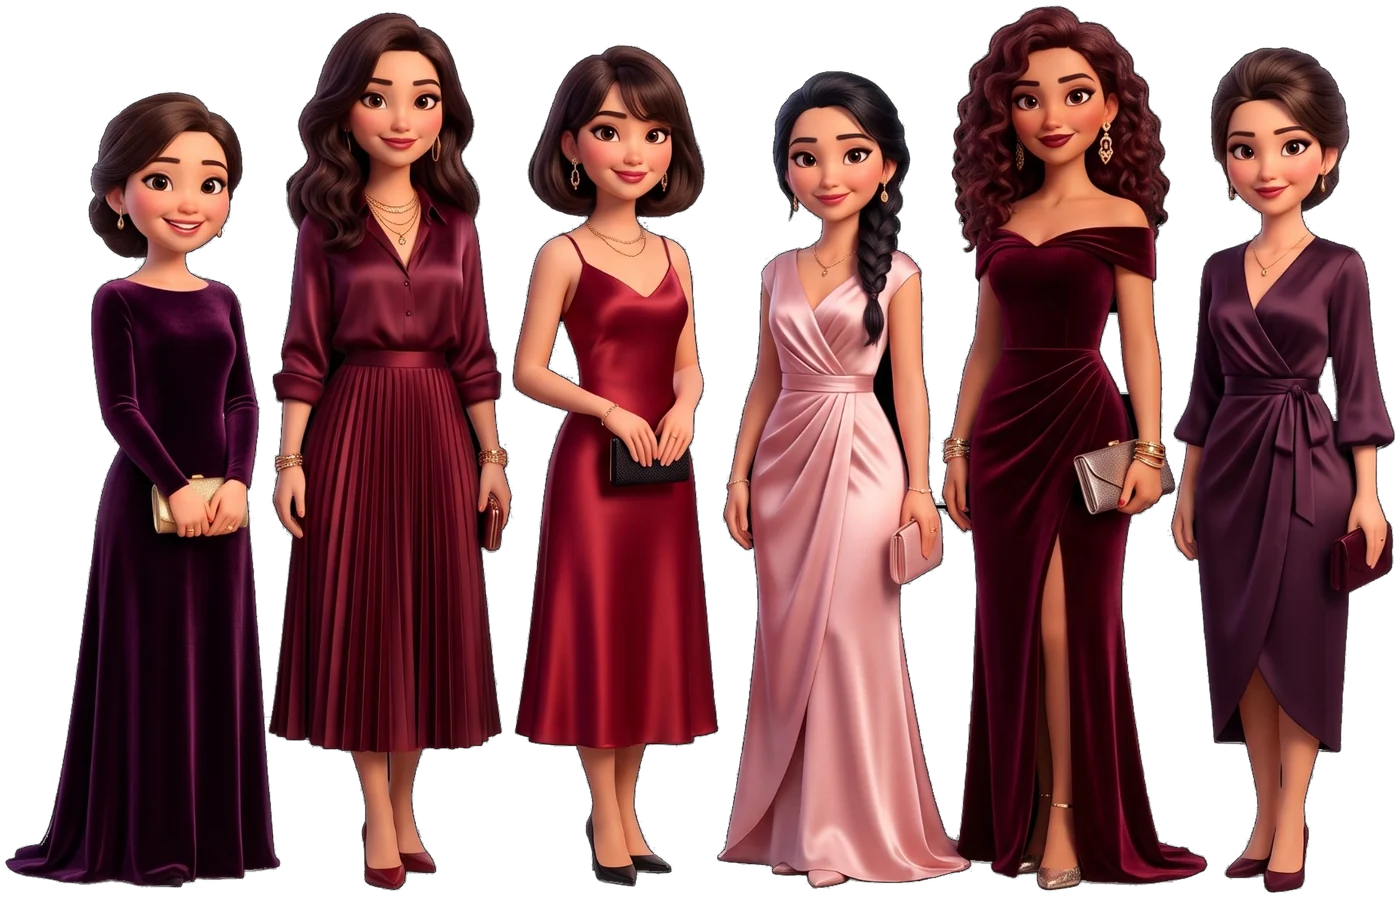
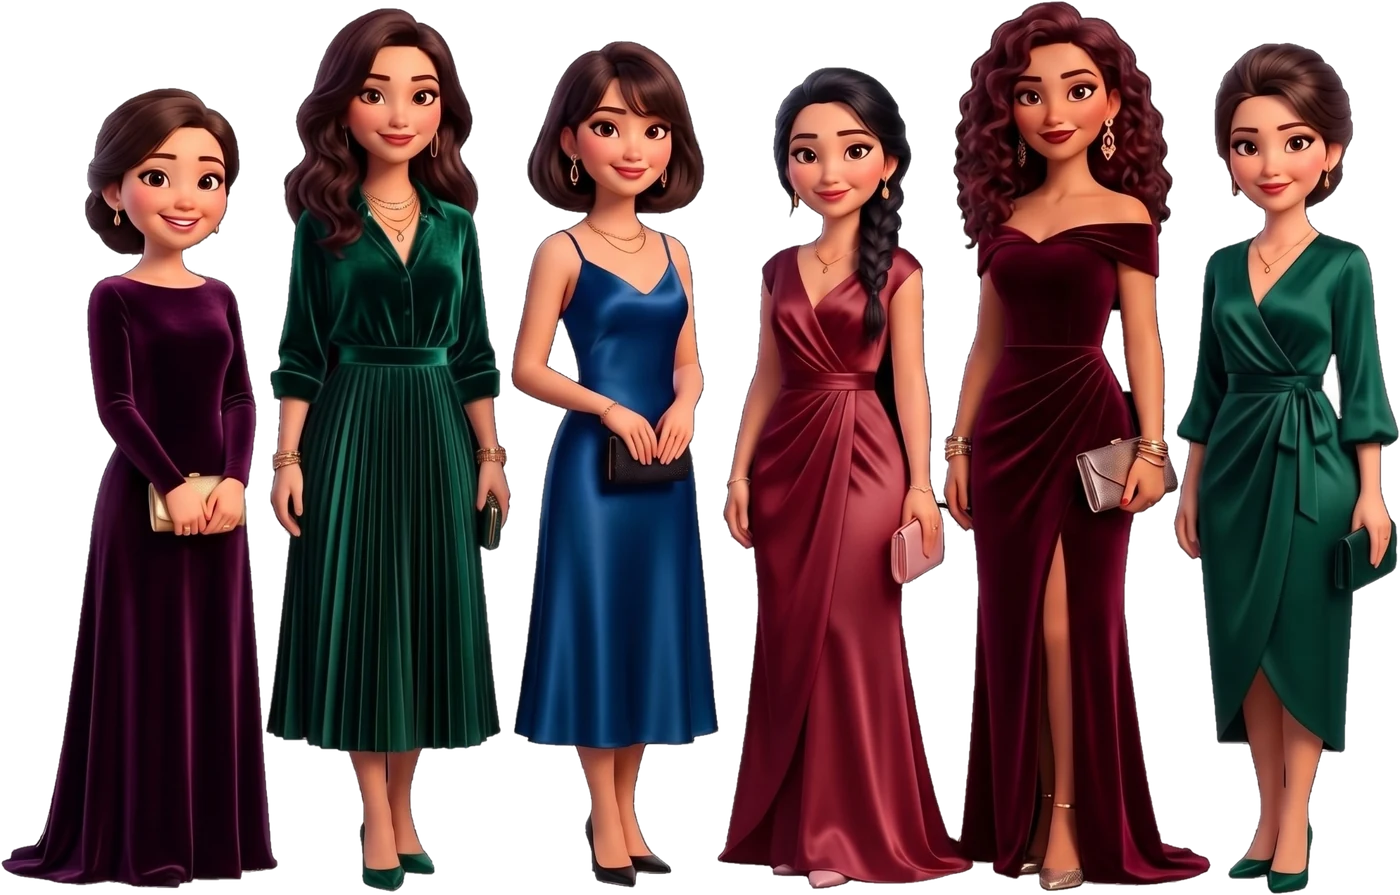
Update dress code: jewel tones image and text

diff --git a/index.html b/index.html
@@ -552,19 +552,18 @@ textarea.inp{min-height:88px;resize:vertical}
       <path pathLength="1" d="M105 3 C96 11 96 19 105 27 C114 19 114 11 105 3Z"/>
       <circle pathLength="1" cx="90" cy="15" r="2"/><circle pathLength="1" cx="120" cy="15" r="2"/>
     </svg>
-    <p class="lead" data-a="up" data-i18n="dressLead">Тойымызға бордо және шие түсті киіммен келсеңіздер, қуанышты боламыз.</p>
+    <p class="lead" data-a="up" data-i18n="dressLead">Тойымызға зүмірет, бордо, сапфир және қараөрік түсті киіммен келсеңіздер, қуанышты боламыз.</p>
     <!-- images/dresscode.webp (transparent background) replaces the swatches when it loads; the swatches stay as a fallback. -->
     <figure class="dress-art" id="dressArt" data-a="zoom" hidden>
-      <img src="images/dresscode.webp" alt="Дресс-код: бордо және шие түсті көйлектер" data-i18n-alt="dressAlt" decoding="async"
+      <img src="images/dresscode.webp" alt="Дресс-код: зүмірет, бордо, сапфир және қараөрік түсті көйлектер" data-i18n-alt="dressAlt" decoding="async"
         onload="document.getElementById('dressArt').hidden=false;document.getElementById('swatches').hidden=true"
         onerror="this.parentNode.remove()">
     </figure>
     <div class="swatches" id="swatches">
-      <div class="sw" style="--i:0"><i style="background:#3f1119"></i><span data-i18n="sw1">баклажан</span></div>
+      <div class="sw" style="--i:0"><i style="background:#0f5a45"></i><span data-i18n="sw1">зүмірет</span></div>
       <div class="sw" style="--i:1"><i style="background:#6b1d2a"></i><span data-i18n="sw2">бордо</span></div>
-      <div class="sw" style="--i:2"><i style="background:#962f3a"></i><span data-i18n="sw3">шие</span></div>
-      <div class="sw" style="--i:3"><i style="background:#c0606a"></i><span data-i18n="sw4">анар</span></div>
-      <div class="sw" style="--i:4"><i style="background:#e7c3bd"></i><span data-i18n="sw5">пудра</span></div>
+      <div class="sw" style="--i:2"><i style="background:#1d4a8a"></i><span data-i18n="sw3">сапфир</span></div>
+      <div class="sw" style="--i:3"><i style="background:#4a1a45"></i><span data-i18n="sw4">қараөрік</span></div>
     </div>
   </section>
 
@@ -643,9 +642,9 @@ var RU = {
   p3: 'Встреча сватов', p3d: 'Встречаем наших уважаемых сватов',
   p4: 'Торжество', p4d: 'Тёплые пожелания, песни, танцы и весёлый вечер',
   p5: 'Завершение вечера', p5d: 'Спасибо, что были с нами!',
-  colors: 'Дресс-код', dressLead: 'Будем очень рады, если в своих образах вы поддержите бордовые и вишнёвые оттенки.',
-  dressAlt: 'Дресс-код: платья бордовых и вишнёвых оттенков',
-  sw1: 'баклажан', sw2: 'бордо', sw3: 'вишня', sw4: 'гранат', sw5: 'пудра',
+  colors: 'Дресс-код', dressLead: 'Будем очень рады, если в своих образах вы поддержите изумрудные, бордовые, сапфировые и сливовые оттенки.',
+  dressAlt: 'Дресс-код: платья изумрудного, бордового, сапфирового и сливового цветов',
+  sw1: 'изумруд', sw2: 'бордо', sw3: 'сапфир', sw4: 'слива',
   rsvpEy: 'Анкета', rsvpT: 'Вы придёте?', rsvpLead: 'Просим заранее подтвердить ваше присутствие!',
   name: 'Имя и фамилия', nameErr: 'Пожалуйста, укажите имя', attQ: 'Придёте на той?',
   a1: 'Да, приду', a2: 'Приду с супругом / супругой', a3: 'К сожалению, не смогу прийти', send: 'Отправить',
